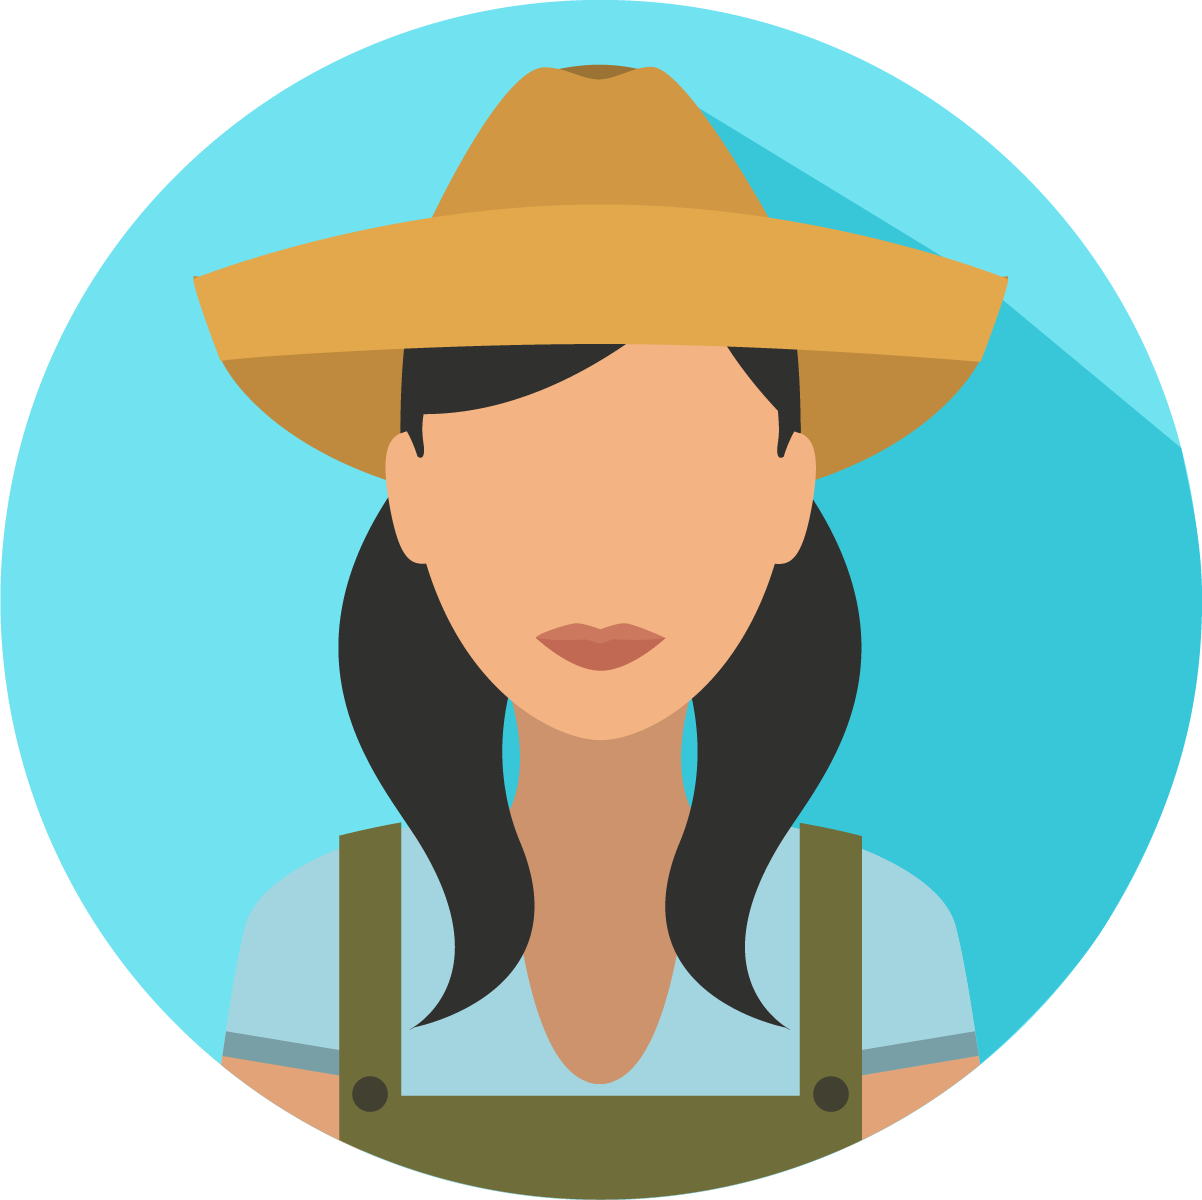
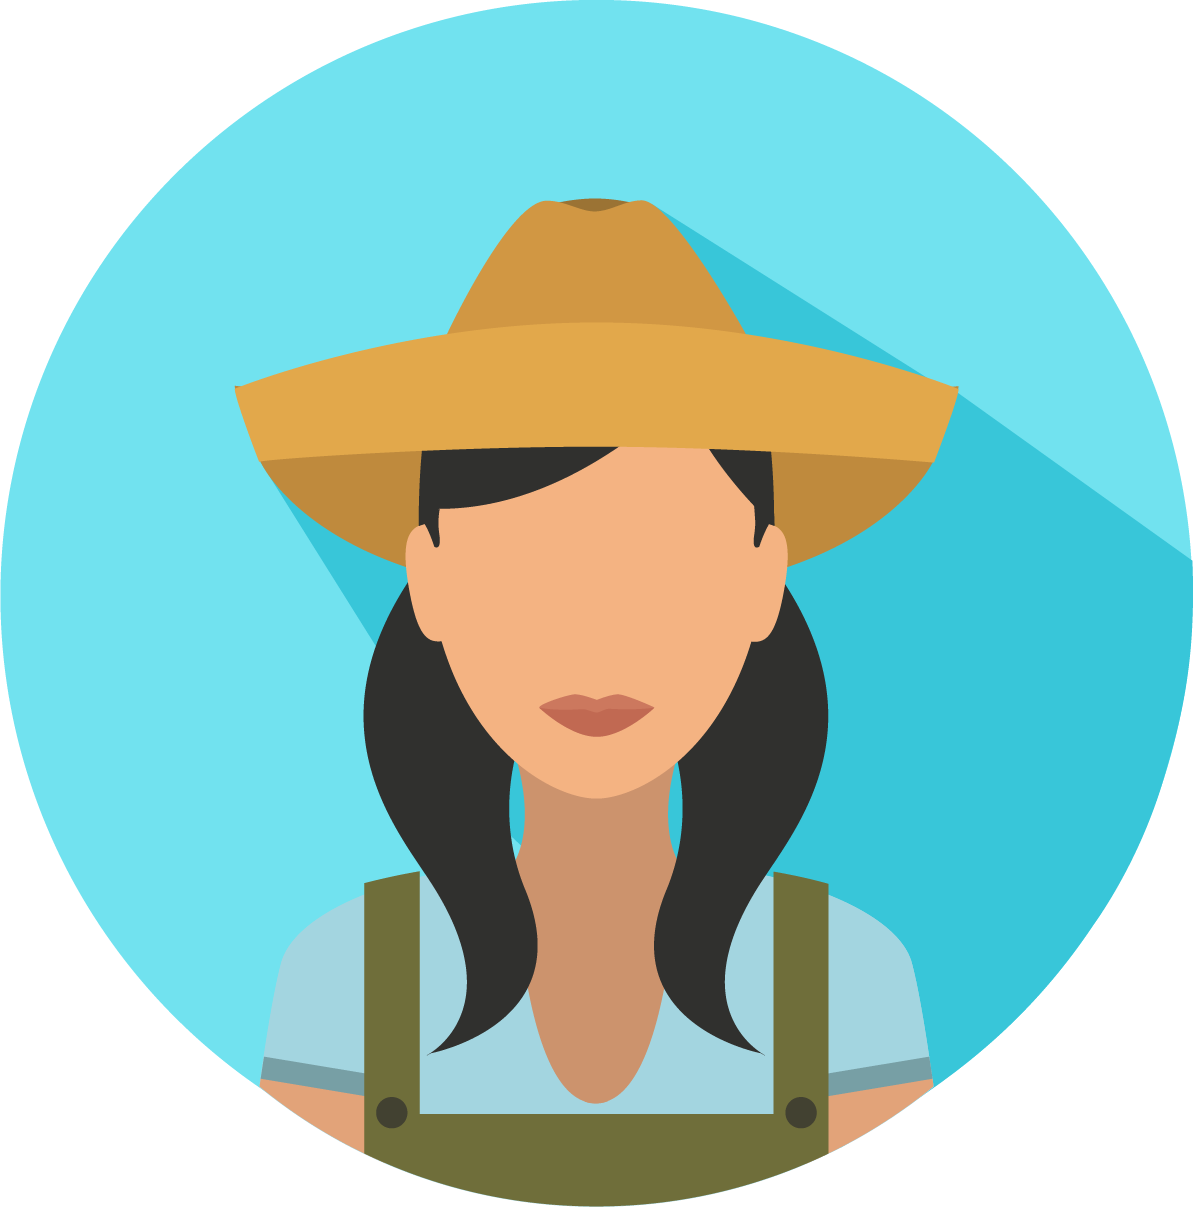
Fixed the female gravitar. Finished the layout and state changes of the selections. Added in sanitization for the Add Player fields. Added in console loggings in callbacks in the Database class.

diff --git a/Database.js b/Database.js
@@ -6,7 +6,7 @@ var databaseName = 'Agricola.db';
 var databaseVersion = '1.0';
 var databaseDisplayName = 'db';
 
-let db = SQLite.openDatabase( databaseName, databaseVersion, databaseDisplayName );
+const db = SQLite.openDatabase( databaseName, databaseVersion, databaseDisplayName );
 
 class Database {
     getDatabase(){
@@ -24,9 +24,13 @@ class Database {
                     "gameID INTEGER PRIMARY KEY NOT NULL, " +
                     "Date TEXT, " +
                     "Location TEXT" +
-                    ");"
+                    ");",
+                    [],
+                    () => {console.log("Queuing the creation of the Games table...");}
                 );
-            }
+            },
+            null,
+            () => {console.log("Games Table Creates");}
         );
 
         db.transaction( tx => {
@@ -35,10 +39,14 @@ class Database {
                     "playerID INTEGER PRIMARY KEY NOT NULL, " +
                     "FirstName TEXT, " +
                     "LastName TEXT, " +
-                    "Gravitar BIT DEFAULT 0" +
-                    ");"
+                    "Gravitar BIT" +
+                    ");",
+                    [],
+                    () => {console.log("Queuing the creation of the Players table...");}
                 );
-            }
+            },
+            null,
+            () => {console.log("Players Table Creates");}
         );
 
         db.transaction( tx => {
@@ -50,46 +58,42 @@ class Database {
                     "score INTEGER, " +
                     "FOREIGN KEY ( gameID ) REFERENCES Games ( gameID ), " +
                     "FOREIGN KEY ( playerID ) REFERENCES Players ( playerID )" +
-                    ");"
+                    ");",
+                    [],
+                    () => {console.log("Queuing the creation of the Scores table...");}
                 );
-            }
+            },
+            null,
+            () => {console.log("Scores Table Creates");}
         );
     }
 
     addPlayer(_firstName:string, _lastName:string, _gravitar:number){
-        var rows;
+        var txResults;
         db.transaction( tx=> {
                 tx.executeSql(
-                    "SELECT * FROM Players " +
-                    "WHERE FirstName = ? " +
-                    "AND LastName = ?;",
-                    [ _firstName, _lastName ],
-                    (_, {_rows}) => { rows = _rows; }
+                    "INSERT INTO Players (FirstName, LastName, Gravitar) " +
+                    "VALUES (?, ?, ?)",
+                    [ _firstName, _lastName, _gravitar ],
+                    ( tx, results ) => { console.log("Queuing the insertion of new player..."); }
                 );
             },
             null,
-            tx => {
-                if ( typeof rows === 'undefined' ) {
-                    tx.executeSql(
-                        "INSERT INTO Players (FirstName, LastName, Gravitar) " +
-                        "VALUES (?, ?, ?)",
-                        [_firstName, _lastName, _gravitar]
-                    )
-                }
-            }
+            () => { console.log("Added Player"); }
         )
     }
 
     getPlayers(){
-        var rows;
+        var txResults;
         db.transaction( tx=> {
                 tx.executeSql(
                     "SELECT * FROM Players",
-                    (_, {_rows}) => { rows = _rows; }
+                    [],
+                    ( tx, results ) => { txResults = results; console.log("Queuing the selecting of all player data..."); }
                 );
             },
             null,
-            () => { return rows; }
+            () => { console.log("Retrieved player data"); return txResults; }
         );
     }
 }

diff --git a/screens/AddPlayerScreen.js b/screens/AddPlayerScreen.js
@@ -39,7 +39,7 @@ export default class AddPlayerScreen extends Component {
     };
 
     render() {
-        let rows = Database.getPlayers();
+        let txResults = Database.getPlayers();
         return (
             <ScrollView>
                 <Text style={styles.infoText}>Enter player's first and last name and gravitar choice. Click "Add Player" when ready.</Text>
@@ -66,7 +66,7 @@ export default class AddPlayerScreen extends Component {
                     >
                         <Image
                             source={require('../assets/images/family_m.png')}
-                            style={styles.gravatarImage}
+                            style={[styles.gravatarImage,this.isSelected(0)]}
                             resizeMode={'center'}
                         />
                     </TouchableOpacity>
@@ -76,18 +76,34 @@ export default class AddPlayerScreen extends Component {
                     >
                         <Image
                             source={require('../assets/images/family_f.png')}
-                            style={styles.gravatarImage}
+                            style={[styles.gravatarImage,this.isSelected(1)]}
                             resizeMode={'center'}
                         />
                     </TouchableOpacity>
                 </View>
                 <View contentContainerStyle={styles.container} style={styles.container}>
                     <AgButton title={"Add Player"} customClick={() => {
-                        console.log("adding player");
+                        if(this.state.firstName === '' || this.state.lastName === ''){
+                            alert("Enter First and Last name.");
+                        }else{
+                            Database.addPlayer(this.state.firstName,this.state.lastName,this.state.gravatar);
+                        }
                     }}/>
                 </View>
             </ScrollView>
         );
+    }
+
+    isSelected = function (options) {
+        if(options===this.state.gravatar){
+            return{
+                opacity: 1
+            }
+        }else{
+            return{
+                opacity: 0.5
+            }
+        }
     }
 }
 
@@ -113,6 +129,7 @@ const styles = StyleSheet.create({
         padding: 3,
     },
     gravatarSelect: {
+        padding: 15,
         marginTop: 15,
         marginBottom: 15,
         flex: 0.45,
@@ -120,7 +137,7 @@ const styles = StyleSheet.create({
         textAlign: 'center',
     },
     gravatarImage: {
-        width: windowWidth * 0.45,
-        height: windowWidth * 0.45,
+        width: windowWidth * 0.35,
+        height: windowWidth * 0.35,
     }
 });

diff --git a/screens/GameScreen.js b/screens/GameScreen.js
@@ -41,10 +41,10 @@ export default class GameScreen extends Component {
   };
 
   render() {
-      let rows = Database.getPlayers();
+      let txResults = Database.getPlayers();
       var availablePlayers;
-      if( typeof rows !== 'undefined'){
-          availablePlayers = rows.map( (player) => {
+      if( typeof txResults.rows !== 'undefined'){
+          availablePlayers = txResults.rows.map( (player) => {
               <CheckBox
                   title={player[1] + ' ' + player[2]}
                   iconType='material'
